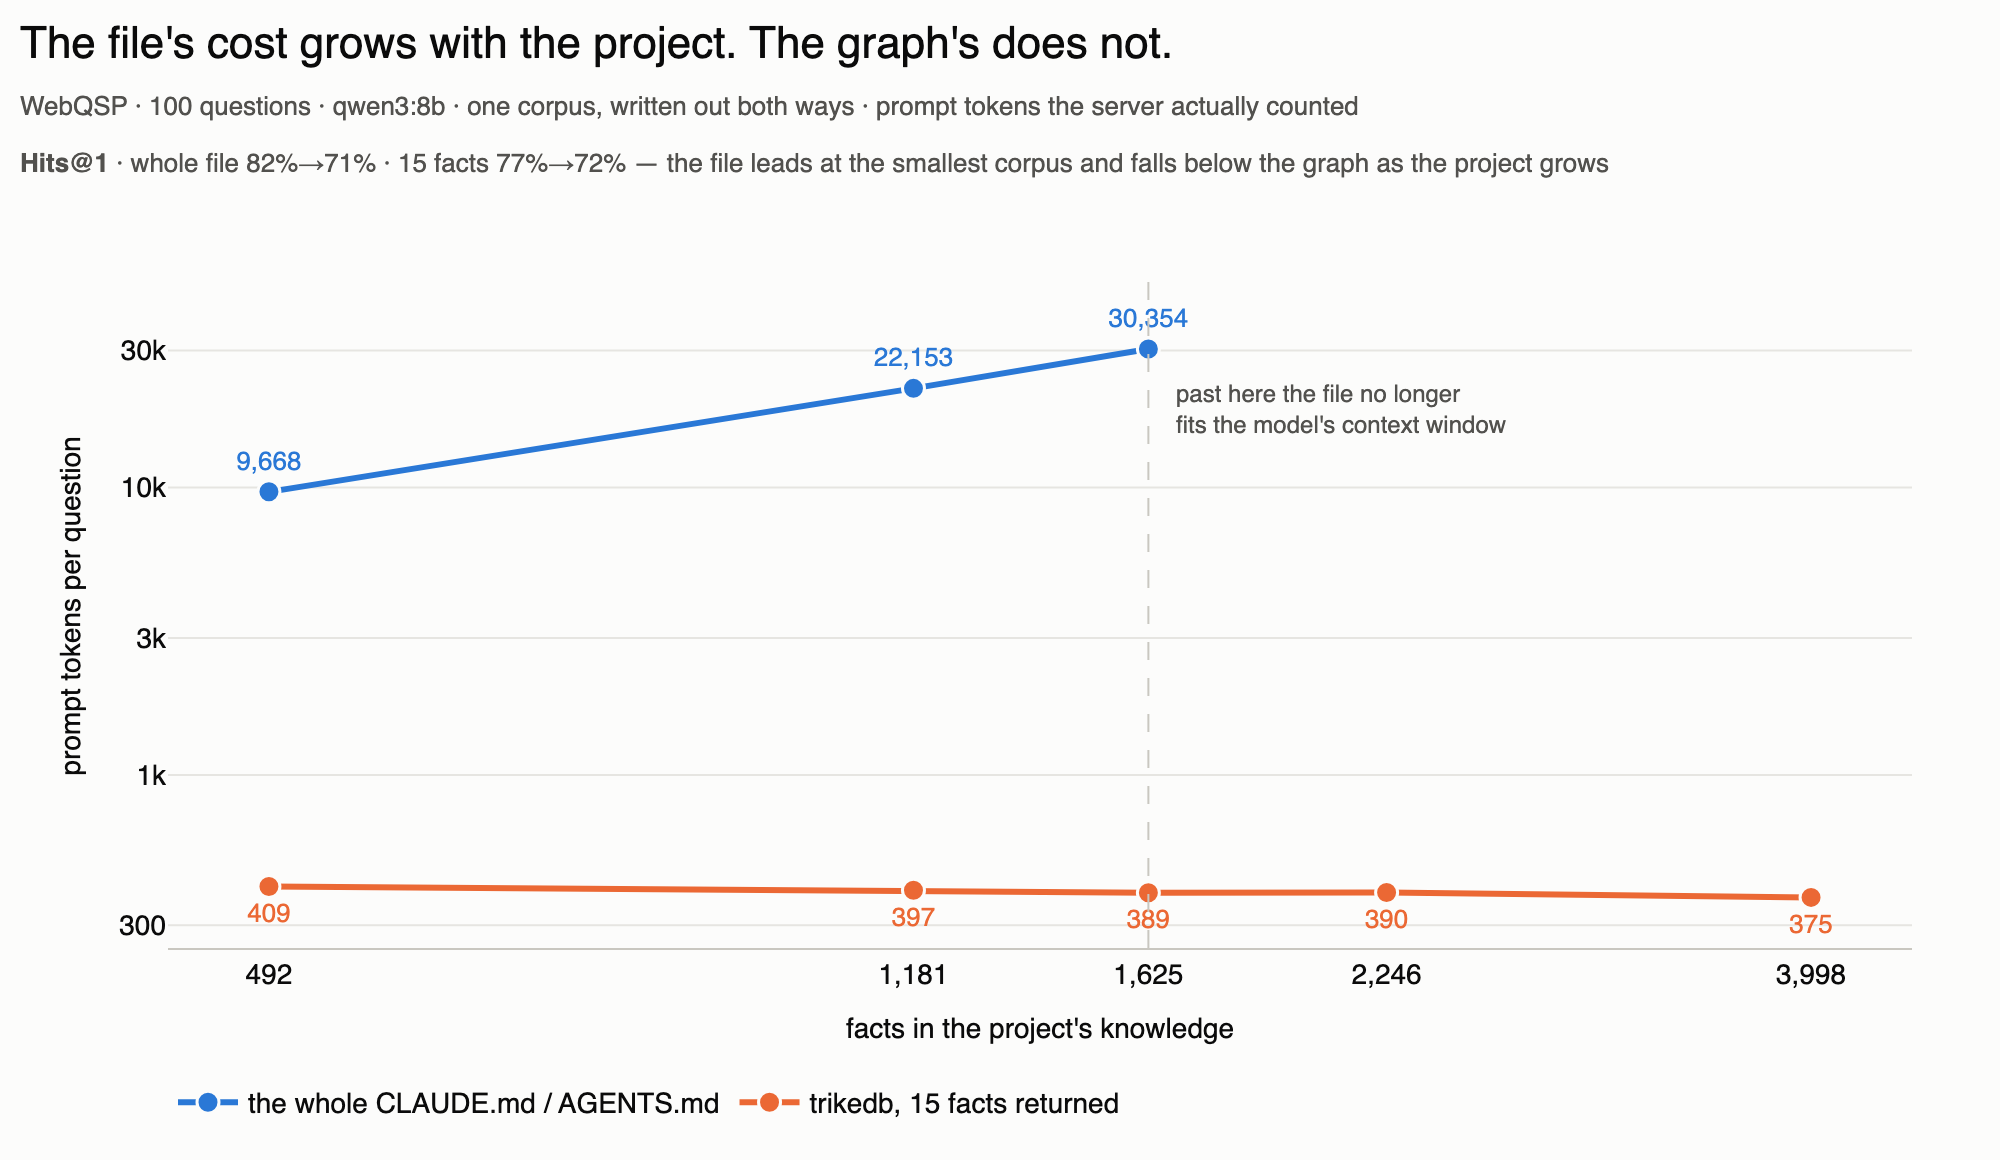
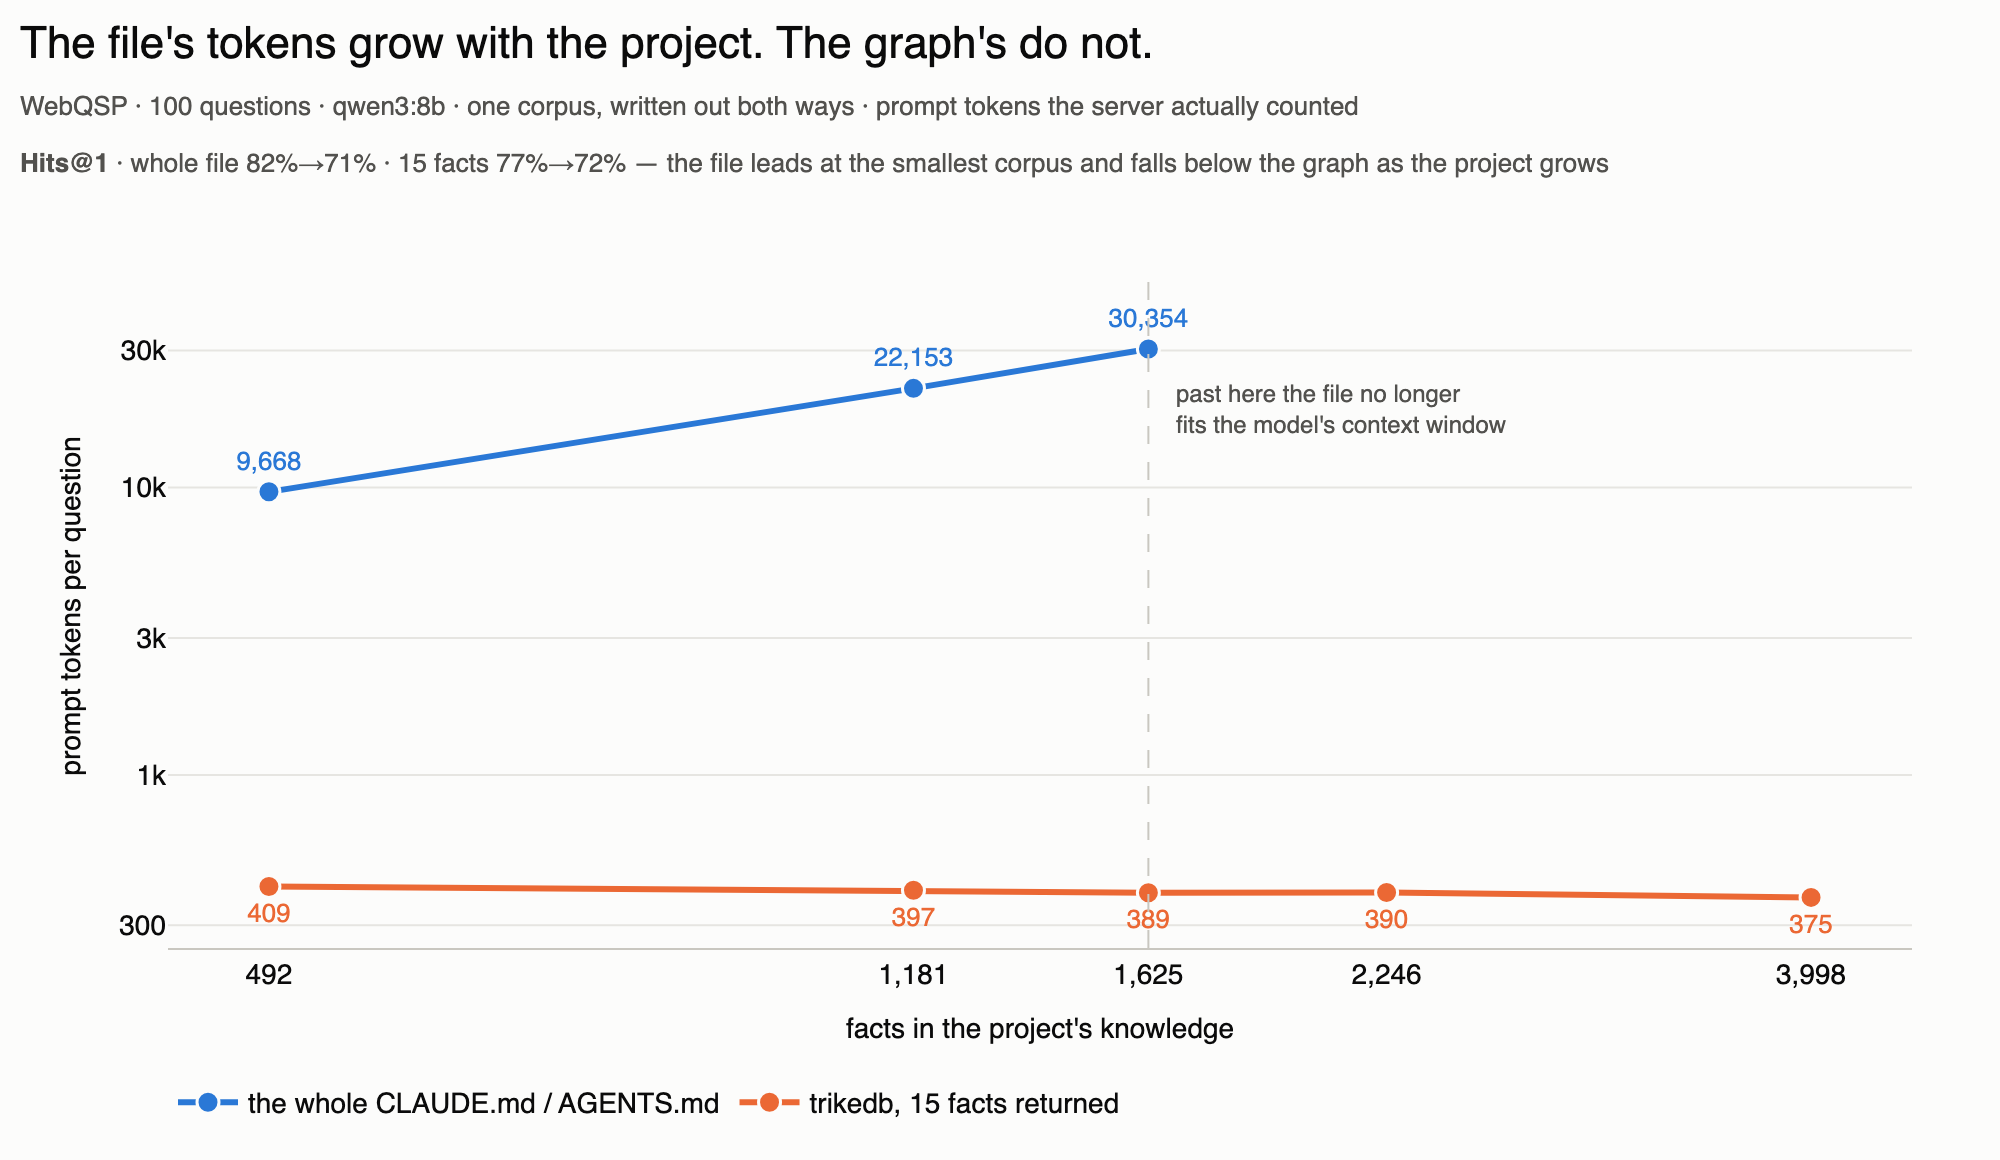
benchmarks: 軸はトークンなのに「コスト」と書いていた
トークンとコストは別物で、そのことはこのベンチマーク自身が示している —
1トークンの値段はどのキャッシュ帯に落ちるかで変わり、同じ本数でも金額は
数倍動く。ここで測っているのはトークン数で金額は測っていないので、軸を
コストと呼ぶのは示せていないことを主張することになる。

図のタイトルと本文の該当箇所をトークンに直した。金額として正しい箇所
（「トークン数を載せる、金額ではない」の節）はそのまま残した。

Changed region(s): [[0.093, 0.0, 0.589, 0.0621]]

diff --git a/benchmarks/memory_chart.py b/benchmarks/memory_chart.py
@@ -1,4 +1,4 @@
-"""Render memory_data.json as one line: what a question costs, as knowledge grows.
+"""Render memory_data.json as one line: tokens per question, as knowledge grows.
 
     python benchmarks/memory_bench.py sweep bench_out/memory \
         --json benchmarks/memory_data.json
@@ -6,8 +6,8 @@
 
 Two series, one axis pair, a number printed on every point. Nothing else.
 
-Two earlier versions tried to carry cost and accuracy in one figure — first as
-stacked panels, then as a cost-quality scatter — and both failed the only test
+Two earlier versions tried to carry tokens and accuracy in one figure — first
+as stacked panels, then as a token-quality scatter — and both failed the test
 that matters, which is whether a reader who is not the author can say what
 they are looking at within a few seconds. The scatter failed in a specific
 way worth recording: the series had different numbers of points (three sizes
@@ -15,7 +15,12 @@ for the file, five for the graph), the graph's five landed within 35 tokens of
 each other and so read as one blob, and only the file's points carried
 labels. Every one of those was defensible and together they were unreadable.
 
-So this figure answers one question — **does the cost grow with the
+The axis is tokens, and the wording stays tokens. Tokens are not cost: a
+token's price depends on which cache band it lands in, and the same count can
+differ severalfold in money. This benchmark counts tokens and does not measure
+money, so calling the axis "cost" would be claiming something it cannot show.
+
+So this figure answers one question — **does the token count grow with the
 project?** — and the accuracy numbers live in the table in README.md, where a
 reader is already reading numbers. `md_grep` is left out for the same reason:
 it settles a different question (is it the retrieval or the graph) and the
@@ -47,7 +52,7 @@ GRAPH = "#eb6834"
 
 TEXT = {
     "en": {
-        "title": "The file's cost grows with the project. The graph's does not.",
+        "title": "The file's tokens grow with the project. The graph's do not.",
         "sub": ("WebQSP · 100 questions · qwen3:8b · one corpus, written out "
                 "both ways · prompt tokens the server actually counted<br>"
                 "<b>Hits@1</b> · whole file 82%→71% · 15 facts 77%→72% — the "
@@ -60,7 +65,7 @@ TEXT = {
         "stop": "past here the file no longer<br>fits the model's context window",
     },
     "jp": {
-        "title": "ファイルのコストは知識量に比例する。グラフはしない。",
+        "title": "ファイルのトークンは知識量に比例する。グラフはしない。",
         "sub": ("WebQSP · 100問 · qwen3:8b · 同一コーパスを両方の形で書き出した · "
                 "サーバが実際に数えたプロンプトトークン<br>"
                 "<b>Hits@1</b> · 全文 82%→71% · 15件 77%→72% — "
@@ -72,7 +77,7 @@ TEXT = {
         "stop": "これ以上はファイルが<br>モデルの文脈窓に入らない",
     },
     "zh": {
-        "title": "文件的成本随项目增长，图谱的不会。",
+        "title": "文件的 token 随项目增长，图谱的不会。",
         "sub": ("WebQSP · 100 题 · qwen3:8b · 同一份语料写成两种形态 · "
                 "服务端实际统计的提示词 token<br>"
                 "<b>Hits@1</b> · 全文 82%→71% · 返回 15 条 77%→72% —— "

diff --git a/benchmarks/README_jp.md b/benchmarks/README_jp.md
@@ -94,8 +94,8 @@ p = 0.27）。リーダーを差し替えるなら、「分からなければそ
 まだ3.1倍安い。
 
 差が開く理由は、**マークダウンには索引がない**からです。ファイルは全文を送るしか
-ない — Solomon の節だけを渡すには、まず全文を読まなければならない。だからコストは
-*プロジェクトの大きさ*に比例します。グラフはアドレス可能なので、コストは*答えの
+ない — Solomon の節だけを渡すには、まず全文を読まなければならない。だから送る量は
+*プロジェクトの大きさ*に比例します。グラフはアドレス可能なので、送る量は*答えの
 大きさ*に比例する。コーパスが492件でも3,998件でも、送るのは約15トリプルです。
 削減率はおよそ「総事実数 ÷ 質問に必要な事実数」で、増えるのは分子だけ。
 
@@ -148,9 +148,9 @@ p = 0.27）。リーダーを差し替えるなら、「分からなければそ
 
 30問、`claude-haiku-4.5` と Codex のデフォルト。Codex のファイル条件だけは 1,625
 件で2ターン、3,998件で3ターン回っています — それだけ大きいファイルの中を探し始める
-ためで、コストが上がる理由の一部です。他はすべて1ターン。各数字の大半はハーネス
+ためで、トークンが増える理由の一部です。他はすべて1ターン。各数字の大半はハーネス
 自身のシステムプロンプト（Claude Code は知識ゼロでも 31,014 トークン）で、これは
-どちらの条件でも避けられません。それを引くと、**知識そのもののコストはファイルで
+どちらの条件でも避けられません。それを引くと、**知識そのものが占めるのはファイルで
 +10,304 トークン、グラフで +363 トークン — 96.5%削減**です。リクエスト全体での
 削減率がこれより小さいのは、リクエストの3分の2がどちらの条件でも避けられない
 ハーネスのオーバーヘッドだからです。

diff --git a/benchmarks/README_zh.md b/benchmarks/README_zh.md
@@ -87,8 +87,8 @@
 上限，再多花也买不到。而图谱能做到 88.0%，并且仍然便宜 3.1 倍。
 
 差距会拉开，是因为 **markdown 没有索引**。文件只能整份发送 —— 想只递出 Solomon
-那一节，得先把文件读完 —— 所以它的成本正比于*项目的大小*。图谱是可寻址的，成本
-正比于*答案的大小*：无论语料是 492 条还是 3,998 条，送出去的都是约 15 条三元组。
+那一节，得先把文件读完 —— 所以它发送的量正比于*项目的大小*。图谱是可寻址的，
+发送的量正比于*答案的大小*：无论语料是 492 条还是 3,998 条，送出去的都是约 15 条三元组。
 比例大致是「总事实数 ÷ 这道题需要的事实数」，而只有分子在变大。
 
 「装不进窗口」是测出来的，不是跳过的：2,246 条时渲染出的文件有 143,157 个字符，
@@ -136,9 +136,9 @@ token：492 条时 68.0%，到 3,998 条降到 61.0%，而图谱是 77.0% → 68
 
 30 道题，`claude-haiku-4.5` 与 Codex 的默认模型。除了 Codex 的文件组 —— 它在
 1,625 条时用了两轮、3,998 条时用了三轮，因为它开始在这么大的文件里翻找，这也是
-它成本上升的一部分原因 —— 其余每一行都是一轮。每个数字的大部分是 harness 自身的
+它 token 增加的一部分原因 —— 其余每一行都是一轮。每个数字的大部分是 harness 自身的
 系统提示（Claude Code 在完全没有项目知识时也要 31,014 个 token），两组都躲不开。
-把它减掉，**知识本身的成本是文件 +10,304 个 token，图谱 +363 个 —— 减少
+把它减掉，**知识本身占的是文件 +10,304 个 token，图谱 +363 个 —— 减少
 96.5%**。整个请求层面的降幅之所以小于这个数，只是因为请求里有三分之二是两组
 都躲不开的 harness 开销。
 

diff --git a/benchmarks/README.md b/benchmarks/README.md
@@ -98,8 +98,9 @@ still 3.1x cheaper.
 
 The reason the gap grows is that markdown has no index. The file has to be
 sent whole, because there is no way to hand over only the Solomon section
-without reading the file first — so its cost is the size of the *project*.
-The graph is addressable, so its cost is the size of the *answer*: ~15 triples
+without reading the file first — so what it sends is the size of the
+*project*. The graph is addressable, so it sends the size of the *answer*:
+~15 triples
 whether the corpus holds 492 facts or 3,998. The ratio is roughly total facts
 over facts the question needs, and only the numerator grows.
 
@@ -153,10 +154,10 @@ lands in and on session lifetime, and this benchmark controls neither.
 30 questions, `claude-haiku-4.5` and Codex's default. Every row is one turn
 except Codex's file arm, which took a second turn at 1,625 facts and a third
 at 3,998 — it starts working to find things in a file that large, and that is
-part of why its cost climbs. Most of each number is the harness's own system
+part of why its token count climbs. Most of each number is the harness's own
 prompt — 31,014 tokens for Claude Code with no project knowledge at all —
 which neither arm avoids.
-Subtract it and the knowledge itself costs **+10,304 tokens as a file against
+Subtract it and the knowledge itself is **+10,304 tokens as a file against
 +363 as a graph — 96.5% less**. The whole-request saving is smaller than that
 only because two thirds of the request is harness overhead neither arm can
 avoid.
